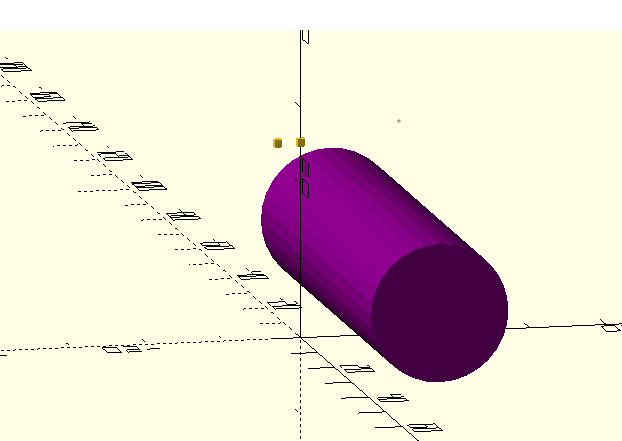
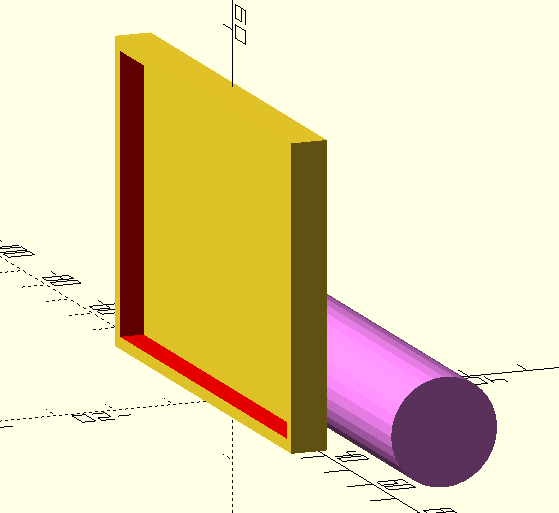
Module wires(), buildin in kit_frame()

diff --git a/README.md b/README.md
@@ -6,7 +6,7 @@ Model for 3D-printing of language OpenScad.
 Backlight powered from akkum 18650 LiIon.
 
 ![commonMD](build_frame_2akkum_openscad.png)
-![commonMD](build_frame_openscad.png)
+![commonMD](build_frame_OpenScad.png)
 
 # Hyperlinks
 
